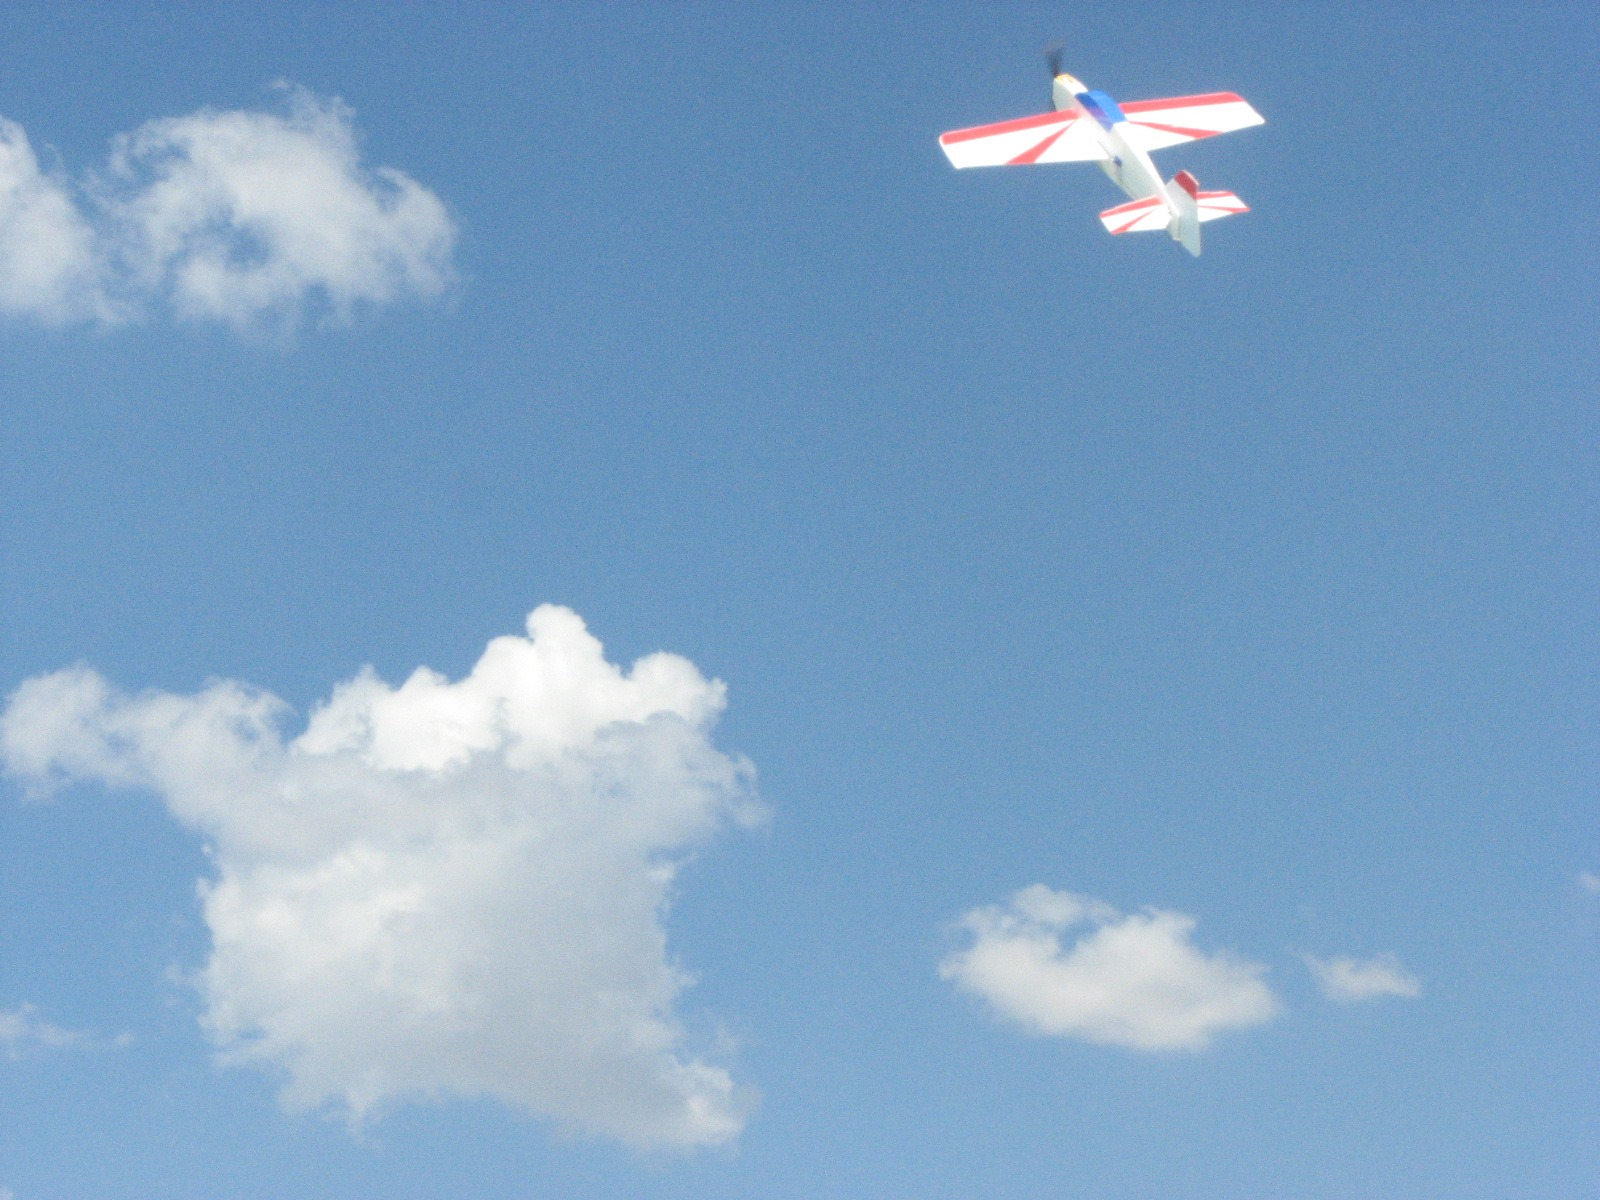
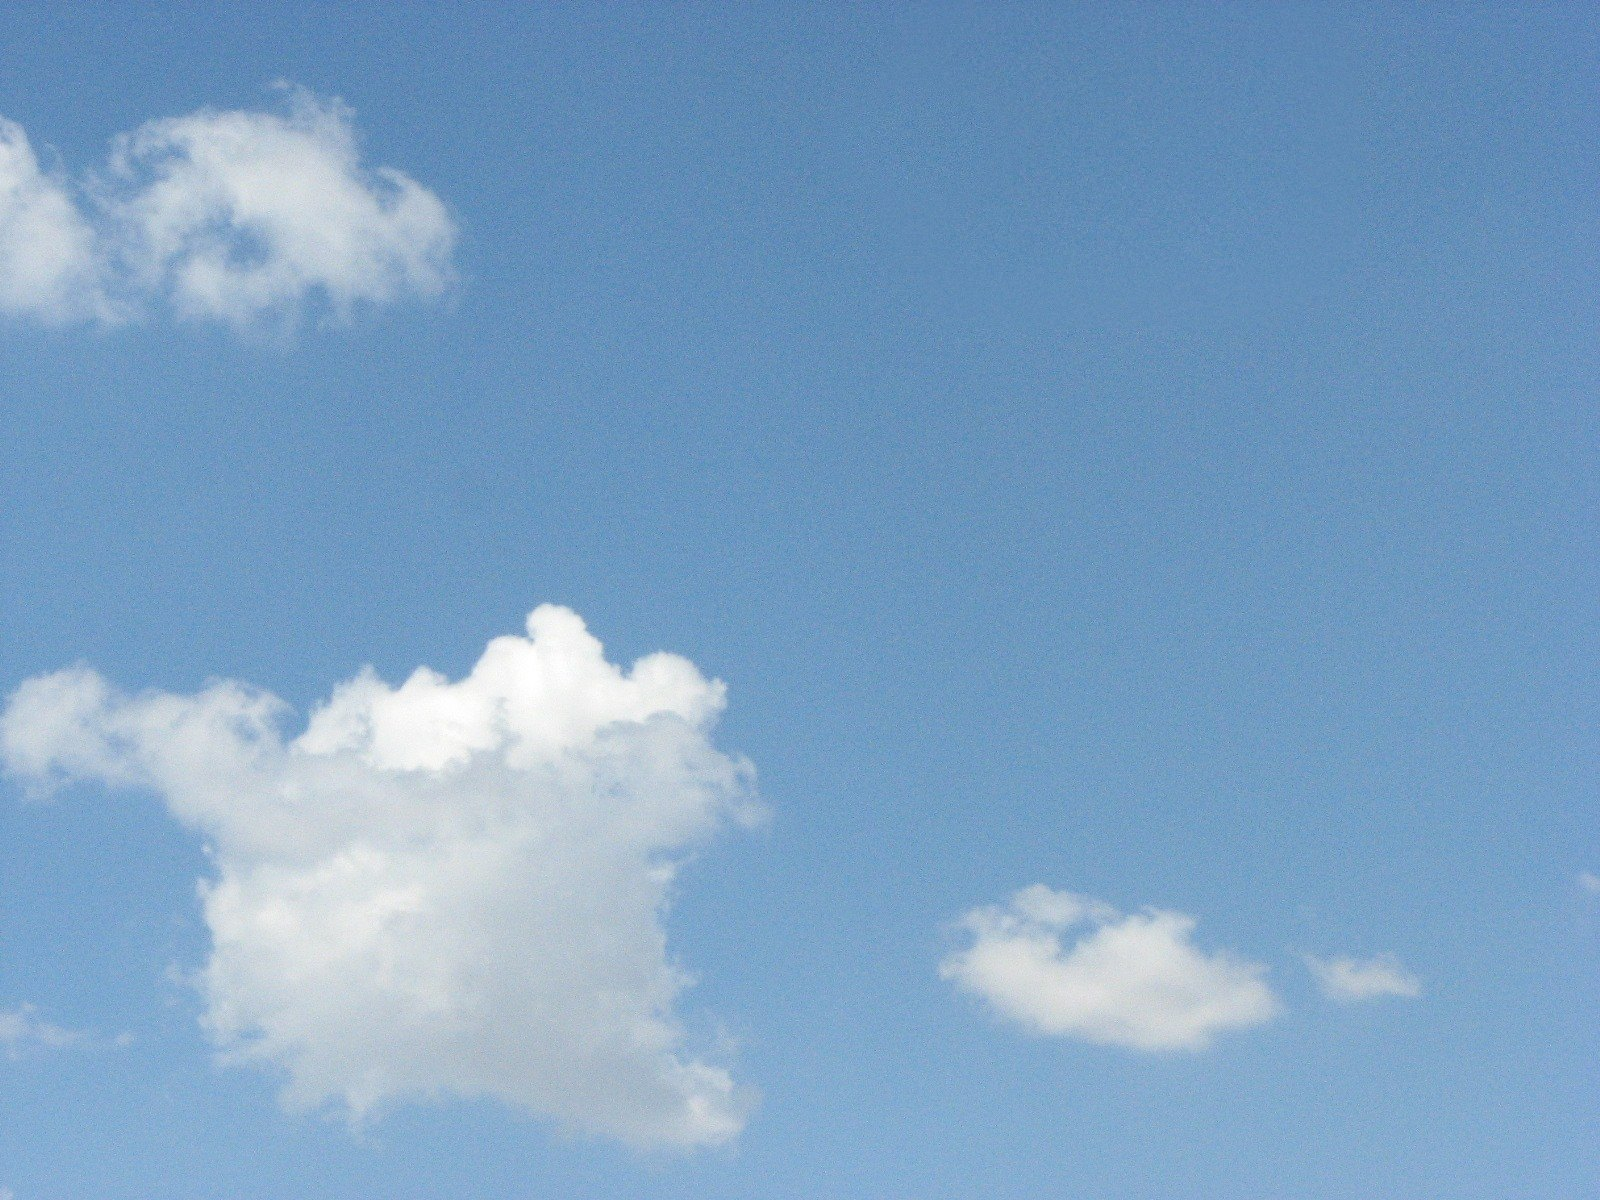
Hero: model as a separate feathered layer placed mid-right; sky background cleaned

Changed region(s): [[0.5625, 0.0308, 0.8125, 0.2158]]

diff --git a/style.css b/style.css
@@ -135,21 +135,19 @@ button { font: inherit; background: none; border: 0; cursor: pointer; color: inh
   background-color: #0b0b0b;
   background:
     linear-gradient(180deg, rgba(8, 24, 40, 0.35) 0%, rgba(8, 24, 40, 0.15) 40%, rgba(8, 24, 40, 0.45) 100%),
-    url("img/hero.jpg") center bottom / cover no-repeat;
+    url("img/hero.jpg") center top / cover no-repeat;
 }
 
 .hero__clouds { display: none; }
 
 .hero__plane {
-  display: none;
   position: absolute;
-  right: 9%;
-  bottom: 5%;
-  width: 380px;
-  height: 380px;
-  opacity: 0.92;
-  filter: drop-shadow(0 24px 30px rgba(10, 40, 70, 0.35));
-  animation: float 6s ease-in-out infinite;
+  right: 5%;
+  top: 44%;
+  width: clamp(260px, 30vw, 560px);
+  height: auto;
+  pointer-events: none;
+  animation: float 7s ease-in-out infinite;
 }
 
 @keyframes float {
@@ -264,7 +262,7 @@ button { font: inherit; background: none; border: 0; cursor: pointer; color: inh
 
 /* ---------- Адаптив ---------- */
 @media (max-width: 1100px) {
-  .hero__plane { width: 300px; height: 300px; right: 4%; bottom: 4%; }
+  .hero__plane { top: 50%; right: 2%; }
   .hero__arrow--prev { left: 12px; }
   .hero__arrow--next { right: 12px; }
   .hero__title { font-size: 56px; }
@@ -277,7 +275,7 @@ button { font: inherit; background: none; border: 0; cursor: pointer; color: inh
   .nav { display: none; }
   .burger { display: flex; }
   .hero__arrow { display: none; }
-  .hero__plane { width: 220px; height: 220px; bottom: 16%; right: 0; }
+  .hero__plane { top: 58%; right: -6%; width: 260px; }
   .hero__title { font-size: 44px; }
   .hero__subtitle { letter-spacing: 0.3em; }
 }

diff --git a/index.html b/index.html
@@ -57,9 +57,7 @@
     <div class="hero__sky" aria-hidden="true"></div>
     <div class="hero__clouds" aria-hidden="true"></div>
 
-    <svg class="hero__plane" viewBox="-135 -135 270 270" aria-hidden="true">
-      <g transform="rotate(28)"><use href="#plane" fill="#ffffff"/><use href="#canopy" fill="#1d5b8a" opacity="0.45"/></g>
-    </svg>
+    <img class="hero__plane" src="img/hero-plane.png" alt="" width="480" height="330">
 
     <button class="hero__arrow hero__arrow--prev" aria-label="Попередній слайд">&#8249;</button>
     <button class="hero__arrow hero__arrow--next" aria-label="Наступний слайд">&#8250;</button>
